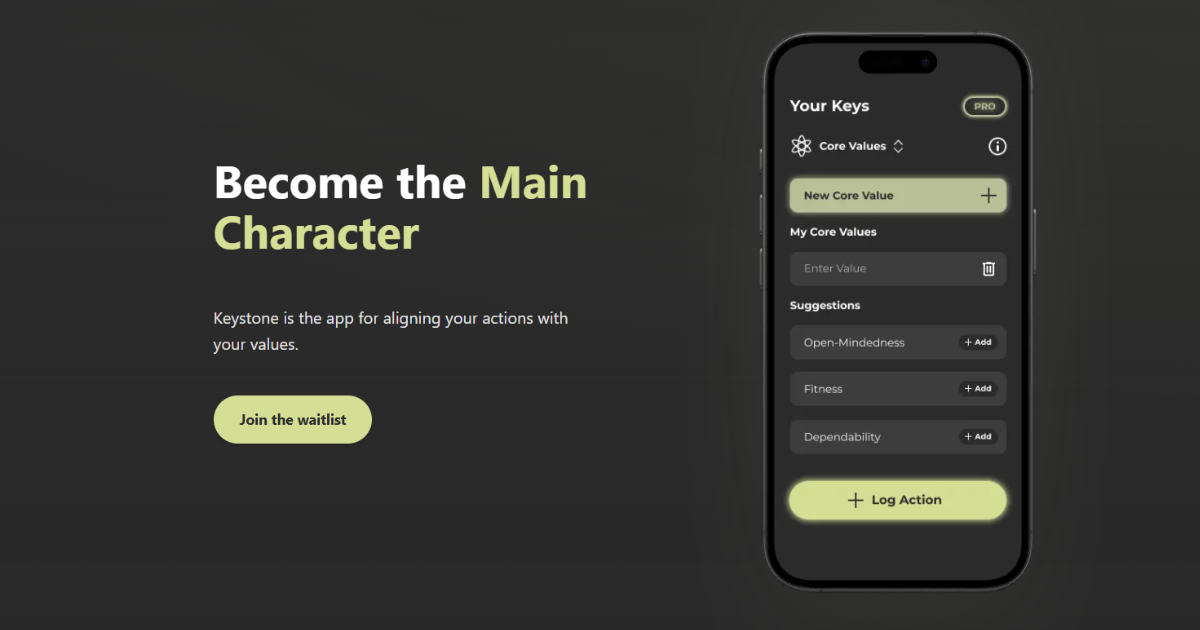
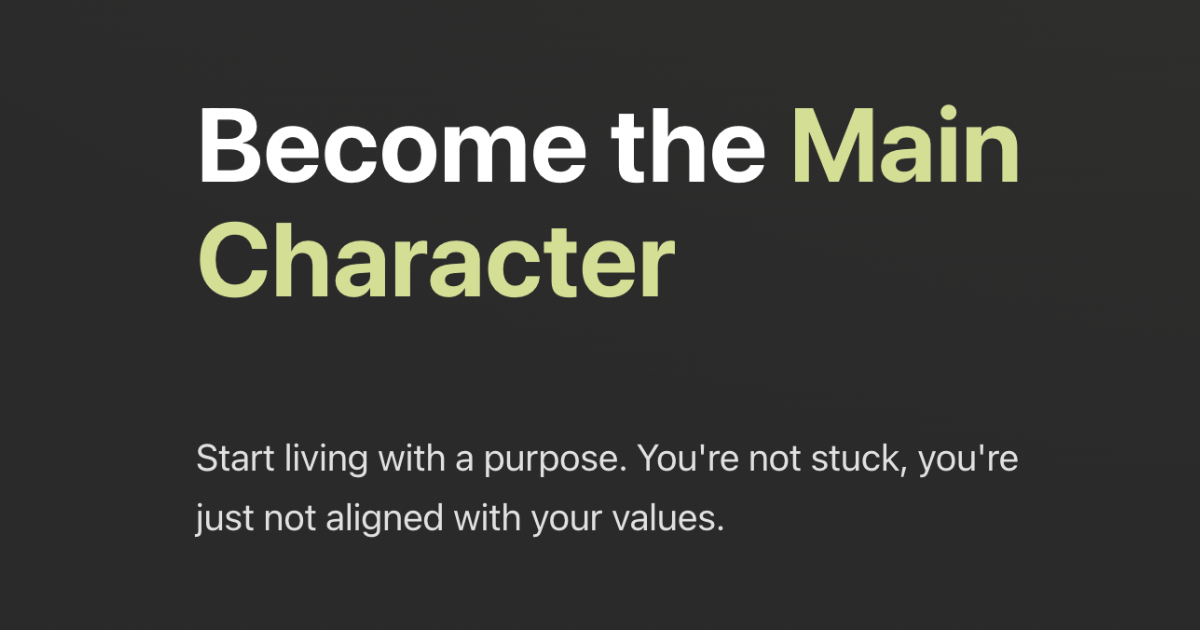
Added metadat and fixed the hero

diff --git a/components/Hero.tsx b/components/Hero.tsx
@@ -57,7 +57,7 @@ export default function Hero() {
               Become the <span style={{ color: 'var(--accent)' }}>Main Character</span>
             </h1>
             <p className="hero-description" style={{ fontSize: '1.25rem', color: '#e0e0e0', maxWidth: '450px', lineHeight: 1.6 }}>
-              Keystone is the app for aligning your actions with your values.
+              Start living with a purpose. You're not stuck, you're just not aligned with your values.
             </p>
             <div className="hero-cta">
               <a href="#waitlist" className="btn btn-primary" style={{ 
@@ -100,10 +100,12 @@ export default function Hero() {
                 width={350}
                 height={700}
                 style={{
+                  width: 'clamp(120px, 25vw, 300px)',
+                  height: 'auto',
                   borderRadius: '40px',
                   position: 'relative',
                   zIndex: 2,
-                  background: 'transparent'
+                  background: 'transparent',
                 }}
               />
             </div>

diff --git a/app/layout.tsx b/app/layout.tsx
@@ -2,14 +2,7 @@ import './globals.css';
 import type { ReactNode } from 'react';
 import Header from '../components/Header';
 import Footer from '../components/Footer';
-import { Metadata } from 'next';
 import { Analytics } from "@vercel/analytics/next"
-
-export const metadata: Metadata = {
-  title: 'Keystone',
-  description: 'Bridge the gap between your actions and your values. Join the waitlist for Keystone, the self-alignment app.',
-  
-};
 
 export default function RootLayout({ children }: { children: ReactNode }) {
   return (

diff --git a/app/head.tsx b/app/head.tsx
@@ -2,7 +2,7 @@ export default function Head() {
   return (
     <>
       <title>Keystone</title>
-      <meta name="description" content="Bridge the gap between your actions and your values. Join the waitlist for Keystone, the self-alignment app." />
+      <meta name="description" content="Waitlist Keystone now." />
       <meta name="viewport" content="width=device-width, initial-scale=1" />
       <link rel="icon" href="/favicon.ico" />
       
